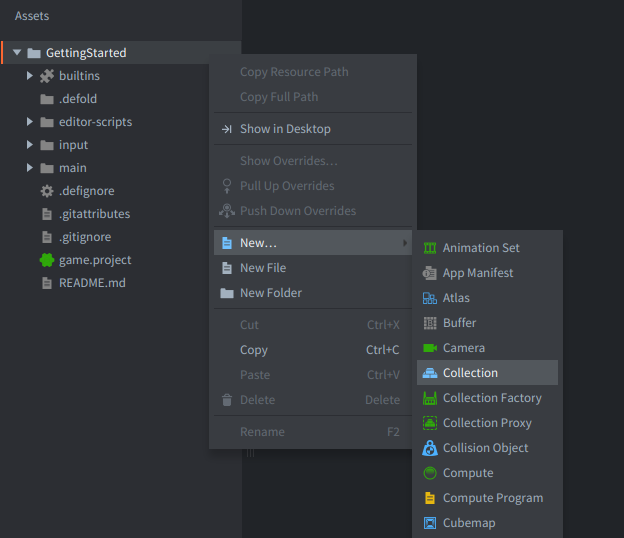
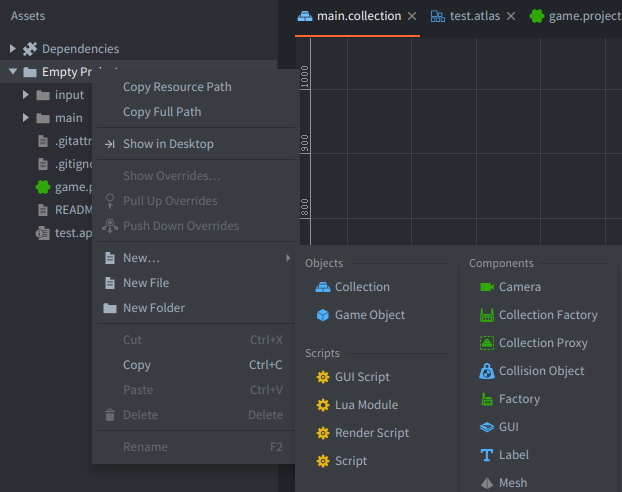
Free cam scene editor changes, dedicated Scene Editor section

Pull request: Free cam scene editor changes

diff --git a/docs/en/manuals/scene-editing.md b/docs/en/manuals/scene-editing.md
@@ -1,8 +1,234 @@
 ---
 title: The Defold scene editor
-brief: Defold contains a number of editors, but the Scene Editor is the one used the most. This manual explains how to use it.
+brief: The Scene Editor is where you edit collections, game objects, GUIs, particle effects and other visual assets. This manual explains selection, tools, and how to navigate the scene view in 2D and 3D—including free camera mode and camera settings.
 ---
 
-# Defold scene editor
+# The Defold scene editor
 
-This manual has been replaced by the [editor manual](/manuals/editor).
+The **Scene Editor** is the visual editor used to build and edit scenes such as collections, game objects, and other visual assets.
+
+By default, many visual scenes open with a **2D orthographic** view. For 3D work you can switch to a 3D-oriented layout, enable a 3D grid plane, and use a **perspective** camera.
+
+## Opening the Scene Editor
+
+Open the Scene Editor by double-clicking a visual resource in the *Assets* pane, such as:
+
+- **Scene structure** — collections (`.collection`), game objects (`.go`)
+- **2D assets** — atlas (`.atlas`), tilemaps (`.tilemap`), sprites (`.sprite`), tile sources (`.tilesource`)
+- **3D assets** — models (`.model`, `.glb`, `.gltf`)
+- **UI** — GUI scenes (`.gui`)
+- **Effects** — particle effects (`.particlefx`)
+- And others
+
+## Scene view navigation (camera controls)
+
+The Scene Editor camera can be controlled with mouse and keyboard. The available controls depend on whether you are using the standard camera navigation or **Free Camera Mode**.
+
+### Standard navigation (all visual editors)
+
+These controls are available in visual editors:
+
+- **Pan**
+  - <kbd>Alt</kbd>/<kbd>⌥ Option</kbd> + <kbd>Left Mouse Button</kbd>
+- **Zoom**
+  - <kbd>Mouse Wheel</kbd>, or
+  - <kbd>Ctrl</kbd>/<kbd>^ Control</kbd> + <kbd>Alt</kbd>/<kbd>⌥ Option</kbd> + <kbd>Left Mouse Button</kbd>
+- **Rotate/Orbit (3D) around selection**
+  - <kbd>Ctrl</kbd>/<kbd>^ Control</kbd> + <kbd>Left Mouse Button</kbd>
+
+You may also use **Frame Selection** (<kbd>F</kbd>) to focus the camera on the current selection.
+
+## 2D and 3D scene orientation
+
+The scene view can be used in both 2D and 3D workflows:
+
+- In **2D**, you typically work in an orthographic view with a 2D-oriented grid.
+- In **3D**, you typically:
+  - Realign the view to a 3D orientation,
+  - Use a **perspective** camera,
+  - Choose an appropriate grid plane (often **Y** for “ground”).
+
+You can access these functions via the toolbar and the **View** menu.
+
+![Scene Editor 3D](images/editor/3d_scene.png)
+
+## Toolbar overview
+
+In the top-right of the scene view there is a toolbar with commonly used tools and view options (left to right):
+
+- **Move tool** (<kbd>W</kbd>)
+- **Rotate tool** (<kbd>E</kbd>)
+- **Scale tool** (<kbd>R</kbd>)
+- **Grid Settings** (`▦`)
+- **Align/Realign Camera 2D/3D** (`2D`) — toggles between 2D and 3D orientation (shortcut <kbd>.</kbd>)
+- **Camera Perspective/Orthographic**
+- **Visibility Filters** (`👁`)
+
+![Toolbar](images/editor/toolbar.png)
+
+## Selecting and manipulating objects
+
+### Selecting objects
+
+<kbd>Left Mouse Click</kbd> on objects in the main window to select them. The rectangle (or cuboid) surrounding the object in the editor view will highlight with cyan to indicate what item is selected. The selected object is also highlighted in the `Outline` view as in the picture above.
+
+  You can also select objects by:
+
+  - <kbd>Left Mouse Click</kbd> and <kbd>Drag</kbd> to select all objects inside the selection region.
+  - <kbd>Left Mouse Click</kbd> objects in the `Outline`, and while holding <kbd>⇧ Shift</kbd> you can expand selection or while holding <kbd>Ctrl</kbd>/<kbd>⌘ Cmd</kbd> you can (un)select clicked.
+
+#### Move tool
+
+![Move tool](images/editor/icon_move.png){.left}
+
+To move objects, use the *Move Tool*. You can find it in the Toolbar in the top right corner of the scene editor, or by pressing the <kbd>W</kbd> key.
+
+![Move object](images/editor/move.png){.inline}![Move object 3D](images/editor/move_3d.png){.inline}
+
+The gizmo changes and shows a set of manipulators - squares and arrows (selected manipulator will turn to orange color) that you can <kbd>Drag</kbd> to move:
+
+- one cyan center square handle to move the object only in the screen space,
+- 3 red, green and blue arrows along each axis to move the object only along the given X, Y or Z axis.
+- 3 red, green and blue square handles (outlined with a transparent fill) to move the object only on the given plane, e.g. X-Y (blue) and (visible if rotating the camera in 3D) X-Z (green) and Y-Z (red) planes.
+
+#### Rotate tool
+
+![Rotate tool](images/editor/icon_rotate.png){.left}
+
+To rotate objects, use the *Rotate Tool* by selecting it in the Toolbar, or by pressing the <kbd>E</kbd> key.
+
+![Rotate object](images/editor/rotate.png){.inline}![Rotate object 3D](images/editor/rotate_3d.png){.inline}
+
+This tool consists of four circular manipulators (selected manipulator will turn to orange color) that you can <kbd>Drag</kbd> to rotate:
+
+- one cyan (outer, biggest circle) manipulator that rotates the object in the screen space
+- 3 smaller red, green and blue circle manipulators allowing rotation around each of the X, Y and Z axes separately. For 2D orthographic view, the two of them are perpendicular to the X- and Y-axis, so the circles only appear as two lines crossing the object.
+
+#### Scale tool
+
+![Scale tool](images/editor/icon_scale.png){.left}
+
+To scale objects, use the *Scale Tool* by selecting it in the toolbar, or by pressing the <kbd>R</kbd> key.
+
+![Scale object](images/editor/scale.png){.inline}![Scale object 3D](images/editor/scale_3d.png){.inline}
+
+This tool consists of a set of square/cube manipulators (selected manipulator will turn to orange color) that you can <kbd>Drag</kbd> to scale:
+
+- one cyan cube in the center scales the object uniformly in all axes (including Z).
+- 3 red, blue and green cube manipulators scale the object along each of the X, Y and Z axes separately.
+- 3 red, green and blue square manipulators (outlined with a transparent fill) scale the object on the X-Y, X-Z or Y-Z planes separately.
+
+### Visibility filters
+
+Click on the Visibility Eye Icon (`👁`) in the Toolbar to toggle visibility of various component types as well as bounding boxes and guide lines (`Component Guides` or shortcut <kbd>Ctrl</kbd> + <kbd>H</kbd> (Win/Linux) or <kbd>^ Ctrl</kbd> + <kbd>⌘ Cmd</kbd> + <kbd>H</kbd>(Mac)).
+
+![Visibility filters](images/editor/visibilityfilters.png)
+
+## Grid settings
+
+The grid can be customized to match your workflow (especially useful in 3D). Click the **Grid Settings** button (`▦`) to open the grid settings popup.
+
+![Grid Settings](images/editor/grid_popup.png)
+
+Settings include:
+
+- **Grid size (X/Y/Z)**
+  Sets the spacing between grid lines along each axis. Use smaller values for precise placement of small objects, or larger values for a broader overview.
+- **Active plane (X/Y/Z)**
+  Selects which plane the grid is drawn on. In 2D workflows this is typically **Z** (the default X-Y plane). In 3D workflows, **Y** is common to represent a ground/floor plane.
+- **Grid color**
+  Sets the color of the grid lines. Useful for contrast against different scene backgrounds.
+- **Grid opacity**
+  Controls how transparent the grid lines are. Lower values make the grid less intrusive while still providing a reference.
+- A **Reset to Defaults** button
+  Restores all grid settings to their original values.
+
+## Camera type: Perspective vs Orthographic
+
+The Scene Editor supports both:
+
+- **Orthographic** camera (common in 2D workflows)
+- **Perspective** camera (common in 3D workflows)
+
+Use the camera toggle in the toolbar to switch. In 3D scenes, perspective navigation usually feels more natural.
+
+## Free Camera Mode
+
+For fast 3D navigation, the Scene Editor provides **Free Camera Mode**, a first-person / “FPS-style” camera.
+
+### Activating Free Camera Mode
+
+- Hold <kbd>Right Mouse Button</kbd> — Free Camera Mode is active as long as the button is held
+- <kbd>Shift</kbd> + <kbd>`</kbd> (backtick) — toggles Free Camera Mode on, keeping it active after release
+
+::: sidenote
+On some keyboard layouts (e.g. Swedish) the backtick key is a dead key and may not trigger the shortcut as expected. You
+can rebind this shortcut in `File ▸ Preferences ▸ Keys` and enter a shortcut for `Scene -> Free Camera -> Activate`
+:::
+
+When Free Camera Mode is active the Scene View is highlighted with a line around the edges.
+
+### Exiting Free Camera Mode
+
+- Release <kbd>Right Mouse Button</kbd> (when activated by hold), or
+- <kbd>Left Mouse Button</kbd>, <kbd>Right Mouse Button</kbd> (press and release), or press <kbd>Esc</kbd> when Free Camera Mode was activated as a toggle.
+
+### Looking around (mouse look)
+
+While Free Camera Mode is active, these keys control camera movement (instead of editor tools):
+
+- Move the mouse to control **yaw** (left/right) and **pitch** (up/down)
+- Pitch is clamped to avoid flipping the camera
+
+You can also optionally invert the Y axis (see **Free camera settings** below).
+
+### Moving
+
+While Free Camera Mode is active:
+
+- <kbd>W</kbd> — forward
+- <kbd>S</kbd> — backward
+- <kbd>A</kbd> — left
+- <kbd>D</kbd> — right
+- <kbd>E</kbd> — up
+- <kbd>Q</kbd> — down
+
+::: sidenote
+All movement keys can be rebound in `File ▸ Preferences ▸ Keys`. Then search for `Scene -> Free Camera`
+:::
+
+Speed modifiers:
+
+- Hold <kbd>Shift</kbd> — move faster
+- Hold <kbd>Alt</kbd>/<kbd>⌥ Option</kbd> — move slower / more precisely
+
+### Walking mode (optional)
+
+Free Camera Mode supports **Walking Mode**.
+
+When enabled:
+- Up/down movement is constrained to behave more like grounded first-person walking on a ground plane.
+- This is useful when exploring a level and you want consistent “grounded” movement.
+
+## Camera settings popup
+
+The perspective camera button in the toolbar has a settings popup for camera-related preferences.
+
+![Perspective Camera Settings](images/editor/camera_popup.png)
+
+The popup contains:
+
+- **Move Speed**
+  Adjusts free camera movement speed.
+
+- **Look Sensitivity**
+  Adjusts how quickly the camera rotates in response to mouse movement.
+
+- **Invert Y**
+  Inverts vertical mouse look.
+
+- **Walking Mode**
+  Constrains movement for ground-like navigation.
+
+- **Reset to Defaults**
+  Restores default camera settings.

diff --git a/docs/en/manuals/editor.md b/docs/en/manuals/editor.md
@@ -60,19 +60,21 @@ Lists all the files and folders that are part of your project in a tree structur
    - <kbd>Drag and Drop</kbd> to add files from elsewhere on your disk to the project or move files and folders to new locations in the project.
    - <kbd>Right Mouse Click</kbd> to open a _Context Menu_ from where you can create new files or folders, rename, delete, track file dependencies and more.
 
-### 2. Editor pane
-The center view shows the currently open file in a specific editor for that file type, for example script files are opened in the built-in Code Editor, while visual components - in 3D Visual Editor. All Visual Editors allows you to change the camera view:
+### 2. Scene Editor pane
 
-- Pan: <kbd>Alt</kbd>/<kbd>⌥ Option</kbd> + <kbd>Left Mouse Button</kbd> or <kbd>Right Mouse Button</kbd>
-- Zoom: <kbd>Scroll Mouse Wheel</kbd> or <kbd>Alt</kbd>/<kbd>⌥ Option</kbd> + <kbd>Right Mouse Button</kbd>.
-- Rotate in 3D around selection: <kbd>Ctrl</kbd>/<kbd>^ Control</kbd> + <kbd>Left Mouse Button</kbd>.
+Double-clicking a collection, game object, or visual component file opens the *Scene Editor* — the visual editor for building and editing scenes. Script files and other non-visual resources open in their own dedicated editors instead.
 
-#### Toolbar
-There is a toolbar in the top right corner of the scene view where you can find object manipulation tools (from left):
+![Scene Editor](images/editor/2d_scene.png)
 
-*Move* (<kbd>W</kbd>), *Rotate* (<kbd>E</kbd>), *Scale* (<kbd>R</kbd>), *Grid Settings* `▦`, *Align Camera 2D/3D* `2D`, *Camera Perspective/Orthographic Toggle* and *Visibility Filters* `👁`.
+Some of the core features offered by the Scene Editor:
 
-![Toolbar](images/editor/toolbar.png)
+- [2D and 3D scene navigation](/manuals/scene-editing/#2d-and-3d-scene-orientation) with orthographic and perspective camera modes
+- [Transform tools](/manuals/scene-editing/#manipulating-objects) for moving, rotating and scaling objects
+- [Free Camera Mode](/manuals/scene-editing/#free-camera-mode) for first-person 3D navigation
+- [Grid settings](/manuals/scene-editing/#grid-settings) with configurable size, plane and appearance
+- [Visibility filters](/manuals/scene-editing/#visibility-filters) to toggle component types and guides
+
+Read more in the [Scene Editor manual](/manuals/scene-editing/).
 
 ### 3. Outline pane
 
@@ -162,75 +164,6 @@ It is possible to open 2 editor views side by side.
 
 You can also use the tab menu to `Swap with Other Tab Pane` to move given tab between panes or `Join Tab Panes` to a single pane.
 
-## The Scene Editor
-
-Double clicking a collection or game object or visual component file brings up the *Scene Editor*. By default, all visual scenes open with a 2D orthographic perspective:
-
-![Scene Editor](images/editor/2d_scene.png)
-
-If you are working with a 3D project it is worth to check the Toolbar and adjust the *Grid Settings* `▦` e.g. realign camera to toggle 2D/3D `2D` (or <kbd>.</kbd> key), set grid to be displayed on Plane `Y` or any other that looks more intuitively to you and change the camera to perspective - using a toggle on the Toolbar or `View` &rarr; `Perspective Camera`:
-
-![Scene Editor 3D](images/editor/3d_scene.png)
-
-### Manipulating objects
-
-<kbd>Left Mouse Click</kbd> on objects in the main window to select them. The rectangle (or cuboid) surrounding the object in the editor view will highlight with cyan to indicate what item is selected. The selected object is also highlighted in the `Outline` view as in the picture above.
-
-  You can also select objects by:
-
-  - <kbd>Left Mouse Click</kbd> and <kbd>Drag</kbd> to select all objects inside the selection region.
-  - <kbd>Left Mouse Click</kbd> objects in the `Outline`, and while holding <kbd>⇧ Shift</kbd> you can expand selection or while holding <kbd>Ctrl</kbd>/<kbd>⌘ Cmd</kbd> you can (un)select clicked.
-
-#### Move tool
-
-![Move tool](images/editor/icon_move.png){.left}
-
-To move objects, use the *Move Tool*. You can find it in the Toolbar in the top right corner of the scene editor, or by pressing the <kbd>W</kbd> key.
-
-![Move object](images/editor/move.png){.inline}![Move object 3D](images/editor/move_3d.png){.inline}
-
-The gizmo changes and shows a set of manipulators - squares and arrows (selected manipulator will turn to orange color) that you can <kbd>Drag</kbd> to move:
-
-- one cyan center square handle to move the object only in the screen space,
-- 3 red, green and blue arrows along each axis to move the object only along the given X, Y or Z axis.
-- 3 red, green and blue square handles to move the object only on the given plane, e.g. X-Y (blue) and (visible if rotating the camera in 3D) X-Z (green) and Y-Z (red) planes.
-
-#### Rotate tool
-
-![Rotate tool](images/editor/icon_rotate.png){.left}
-
-To rotate objects, use the *Rotate Tool* by selecting it in the Toolbar, or by pressing the <kbd>E</kbd> key.
-
-![Rotate object](images/editor/rotate.png){.inline}![Rotate object 3D](images/editor/rotate_3d.png){.inline}
-
-This tool consists of four circular manipulators (selected manipulator will turn to orange color) that you can <kbd>Drag</kbd> to rotate:
-
-- one cyan (outer, biggest circle) manipulator that rotates the object in the screen space
-- 3 smaller red, green and blue circle manipulators allowing rotation around each of the X, Y and Z axes separately. For 2D orthographic view, the 2 of them are perpendicular to the X- and Y-axis, so the circles only appear as two lines crossing the object.
-
-
-#### Scale tool
-
-![Scale tool](images/editor/icon_scale.png){.left}
-
-To scale objects, use the *Scale Tool* by selecting it in the toolbar, or by pressing the <kbd>R</kbd> key.
-
-![Scale object](images/editor/scale.png){.inline}![Scale object 3D](images/editor/scale_3d.png){.inline}
-
-This tool consists of a set of square/cube manipulators (selected manipulator will turn to orange color) that you can <kbd>Drag</kbd> to scale:
-
-- one cyan cube in the center scales the object uniformly in all axes (including Z).
-- 3 red, blue and green cube manipulators scale the object along each of the X, Y and Z axes separately.
-- 3 red, blue and green cube manipulators scale the object in the X-Y plane, the X-Z plane or the Y-Z plane separately.
-
-
-### Visibility filters
-
-Click on the Visibility Eye Icon (`👁`) in the Toolbar to toggle visibility of various component types as well as bounding boxes and guide lines (`Component Guides` or shortcut <kbd>Ctrl</kbd> + <kbd>H</kbd> (Win/Linux) or <kbd>^ Ctrl</kbd> + <kbd>⌘ Cmd</kbd> + <kbd>H</kbd>(Mac)).
-
-![Visibility filters](images/editor/visibilityfilters.png)
-
-
 ## Creating new project files
 
 To create new resource files, either select `File ▸ New…` and then choose the file type from the menu, or use the context menu:
@@ -242,7 +175,6 @@ To create new resource files, either select `File ▸ New…` and then choose th
 Type a suitable *Name* for the new file and eventually change *Location*. The full file name including the file type suffix is shown under *Preview* in the dialog:
 
 ![create file name](images/editor/create_file_name.png)
-
 
 ## Templates
 